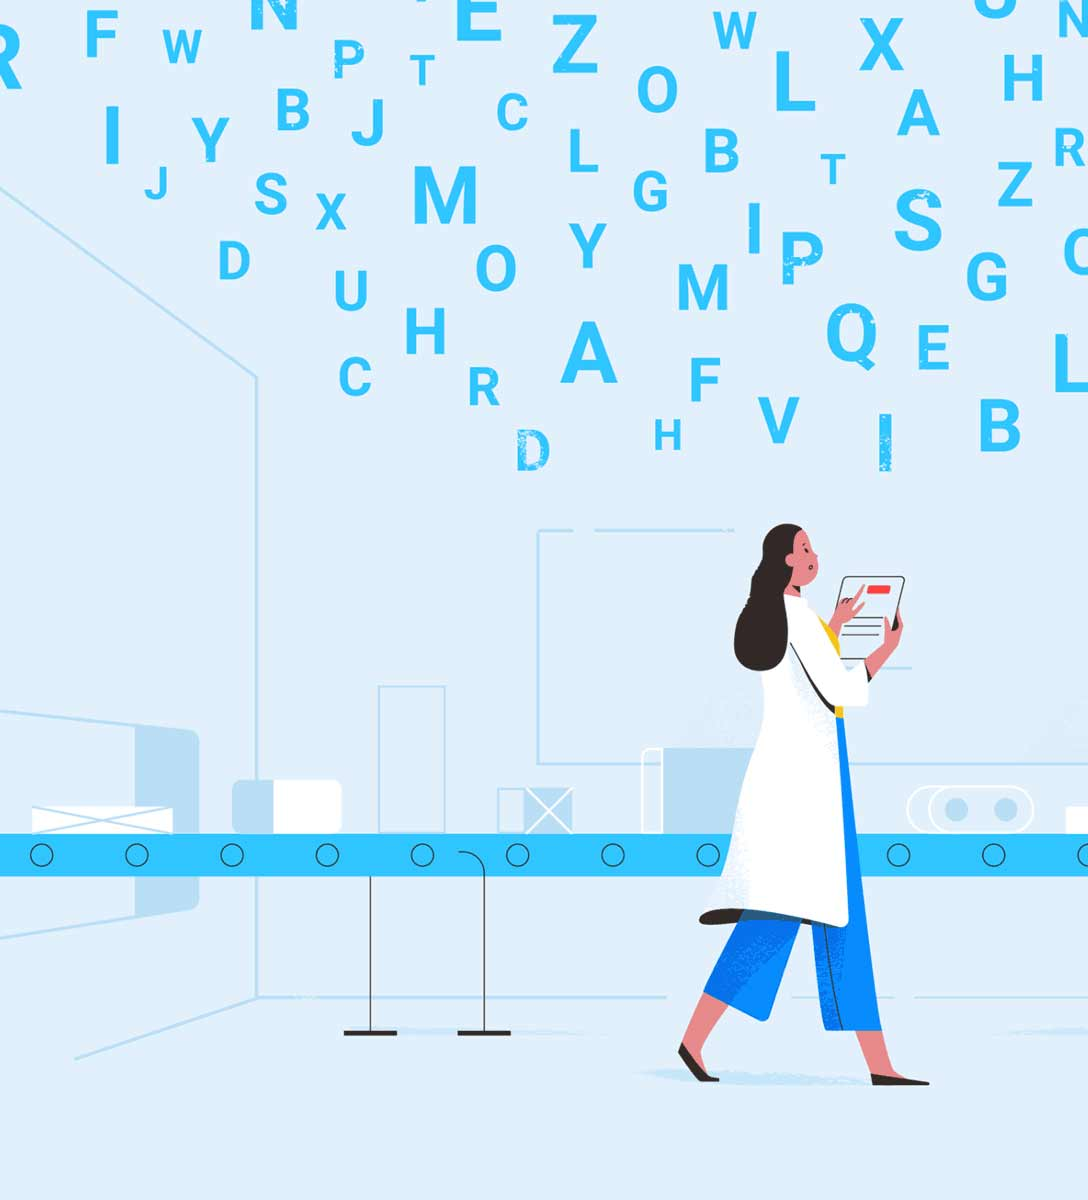
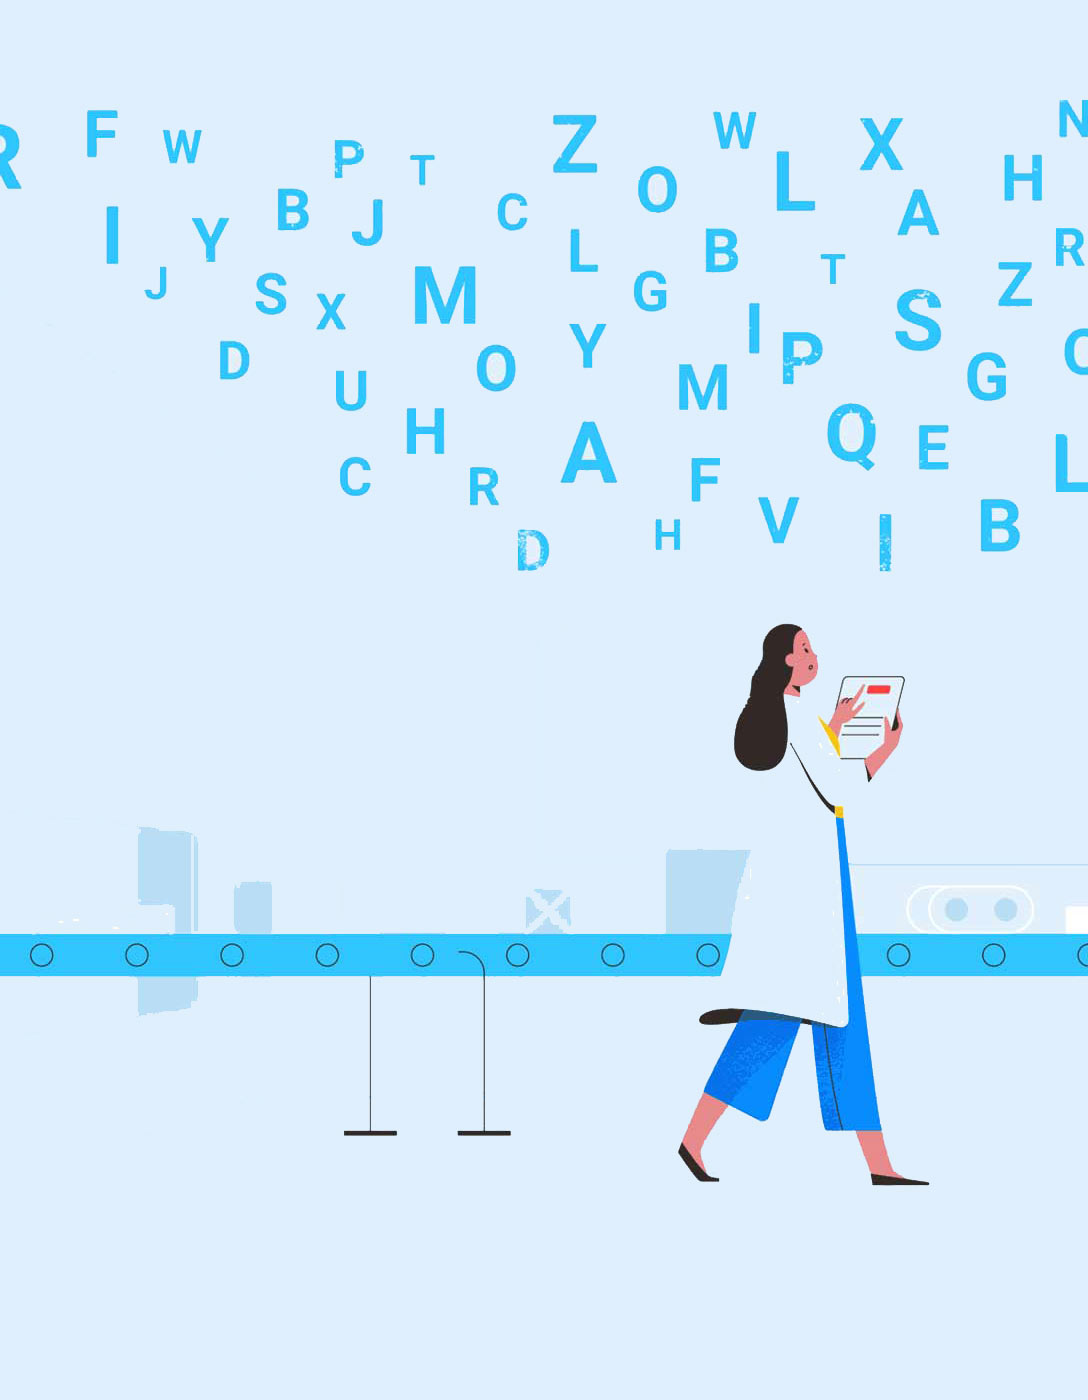
finition valeur avec amélioration photo et recentrage du texte, je suis giga précis et aussi une correction de texte

diff --git a/src/app/home/home.component.html b/src/app/home/home.component.html
@@ -80,8 +80,8 @@
                     <p class="col-10 mx-auto text-justify pt-3">Mamoot est une agence créative, ambitieuse &
                         performante.
                         Nous vous accompagnons dans votre transformation digitale. De plus, l'équipe vous aide à concevoir des
-                        solutions digitales performantes et s'intégrant parfaitement à votre stratégie de
-                        communication. Faites-nous confiance pour la création de votre site internet, systèmes de gestion, campagnes de communication et plus encore.
+                        solutions digitales performantes s'intégrant parfaitement à votre stratégie de
+                        communication. Faites-nous confiance pour la création de votre site web, systèmes de gestion, campagnes de communication et plus encore.
                         Nous savons qu'il est très difficile d'établir le budget dédié à la communication.
                         C'est pour cela que nous vous conseillons et orientons afin de tirer un maximum de profit de
                         cet investissement. L'agence à coeur d'établir une relation de confiance, peu importe vos
@@ -107,12 +107,12 @@
                 <p class="col-10 mx-auto text-justify pt-3">Mamoot est une agence créative, ambitieuse &
                     performante.
                     Nous vous accompagnons dans votre transformation digitale. De plus, l'équipe vous aide à concevoir des
-                    solutions digitales performantes et s'intégrant parfaitement à votre stratégie de
-                    communication. Faites-nous confiance pour la création de votre site internet, systèmes de gestion, campagnes de communication et plus encore.
+                    solutions digitales performantes s'intégrant parfaitement à votre stratégie de
+                    communication. Faites-nous confiance pour la création de votre site web, systèmes de gestion, campagnes de communication et plus encore.
                     Nous savons qu'il est très difficile d'établir le budget dédié à la communication.
                     C'est pour cela que nous vous conseillons et orientons afin de tirer un maximum de profit de
                     cet investissement. L'agence à coeur d'établir une relation de confiance, peu importe vos
-                    besoins. </p>
+                    besoins.</p>
             </div>
 
             <div class="row px-0 mx-0">

diff --git a/src/app/solutions/solutions.component.html b/src/app/solutions/solutions.component.html
@@ -3,7 +3,7 @@
         <div class="container">
             <h1><b>Découvrez nos</b> <strong> expertises </strong></h1>
             <hr>
-            <h2 class="text-center">Notre agence réponds à un besoin: développer vos idées!<br>Un partenaire axé
+            <h2 class="text-center">Notre agence répond à un besoin: développer vos idées!<br>Un partenaire axé
                 savoir-faire, créativité & performance.</h2>
         </div>
     </div>
@@ -77,7 +77,7 @@
                                 <hr>
                                 <p class="text-justify">Nous créons et donnons du sens à votre contenu. Conception UX &
                                     UI, créations de chartes graphiques, de logos, documents, de contenu marketing,
-                                    mailings ... Nous mettons tout notre savoir-faire graphique à votre
+                                    mailings, graphisme, ... Nous mettons tout notre savoir-faire graphique à votre
                                     service!
                                 </p>
                             </div>
@@ -90,7 +90,7 @@
                             <hr>
                             <p class="text-justify">Nous analysons votre site et sa concurrence. Nous optimisons son
                                 référencement (SEO & SEA) afin
-                                que vos clients vous trouvent facilement via les moteurs de recherches. Nous vous
+                                que vos clients vous trouvent facilement via les moteurs de recherche. Nous vous
                                 conseillons à court terme, mais aussi à long terme afin de rester en tête des
                                 recherches. Votre projet vaut la peine d'être trouvé !</p>
                         </div>

diff --git a/src/app/valeurs/valeurs.component.css b/src/app/valeurs/valeurs.component.css
@@ -5,19 +5,23 @@ h1 {
     font-family: 'Bungee Shade', cursive;
     padding-top: 5%;
   }
-  
+
   .valeur {
-    padding-top: 25%
+    padding-top: 5%
   }
-  
-  
+
+  .methode {
+  padding-top: 30%;
+  }
+
+
   a{
   width: 3%;
-  
-  
+
+
   }
-  
-  
+
+
   h2 {
     text-transform: uppercase;
     text-align: center;
@@ -25,21 +29,21 @@ h1 {
     font-family: 'Quicksand', sans-serif;
     font-size: 1.5em;
     padding-top: 5%;}
-  
-  
+
+
   h3 {
     text-transform: uppercase;
     text-align: center;
     color: black;
     font-family: 'Bungee Shade', cursive;
     font-size: 1.5em;}
-  
+
   h4 {
     color: black;
     font-family: 'Quicksand', sans-serif;
     font-size: 1.4em;
-    padding-top: 8%;}
-  
+    padding-top: 4%;}
+
   ul {
     font-family: 'Quicksand', sans-serif;
     font-size: 1em;}
@@ -50,46 +54,45 @@ h1 {
     color: black;
     font-style: bold;
   }
-  
+
   #id_rob {
     background: url("/assets/img/Rob.png");
     background-size: 70%;
     background-position: left -10px bottom 0px;
     background-repeat: no-repeat;
   }
-  
+
   #id_thom {
     background: url("/assets/img/thom.png");
     background-size: 70%;
     background-position: left -70px bottom 0px;
     background-repeat: no-repeat;
   }
-  
+
   #id_team {
     background: url("/assets/img/team.jpg");
     background-size: 90%;
     background-repeat: no-repeat;
     background-position: left 0px bottom 0px;
   }
-  
-  
-  
+
+
+
   hr {
     border-top: 3px solid #ABDDDE;
     width: 50px;
   }
-  
+
   hr.empty {
     height:15px;
     border-top: 0;
   }
-  
-  
+
+
   li {
     text-align: justify;
   }
-  
+
   li.list-group-item {
     text-align: center !important;
   }
-  

diff --git a/src/app/valeurs/valeurs.component.html b/src/app/valeurs/valeurs.component.html
@@ -1,4 +1,4 @@
-<<title>Mamoot, du digital et des valeurs</title>
+
 <div class="container-fluid d-none d-lg-block">
   <div id="carouselExampleControls" class="carousel vert slide d-none d-lg-block" data-ride="carousel"
     data-interval="9000">
@@ -91,7 +91,7 @@
           <div class="col-6 my-auto">
             <div class="fullheight">
               <div class="col-10 mx-auto">
-                <h1 class="text-center valeur" style="color:#ABDDDE;">NOTRE METHODE :</h1>
+                <h1 class="text-center methode" style="color:#ABDDDE;">NOTRE METHODE :</h1>
                 <h2 class="text-center">Notre méthodologie est dite Agile. Elle se veut souple et
                   adaptée, et place les besoins du client au centre des priorités du projet.</h2>
                 <hr>
